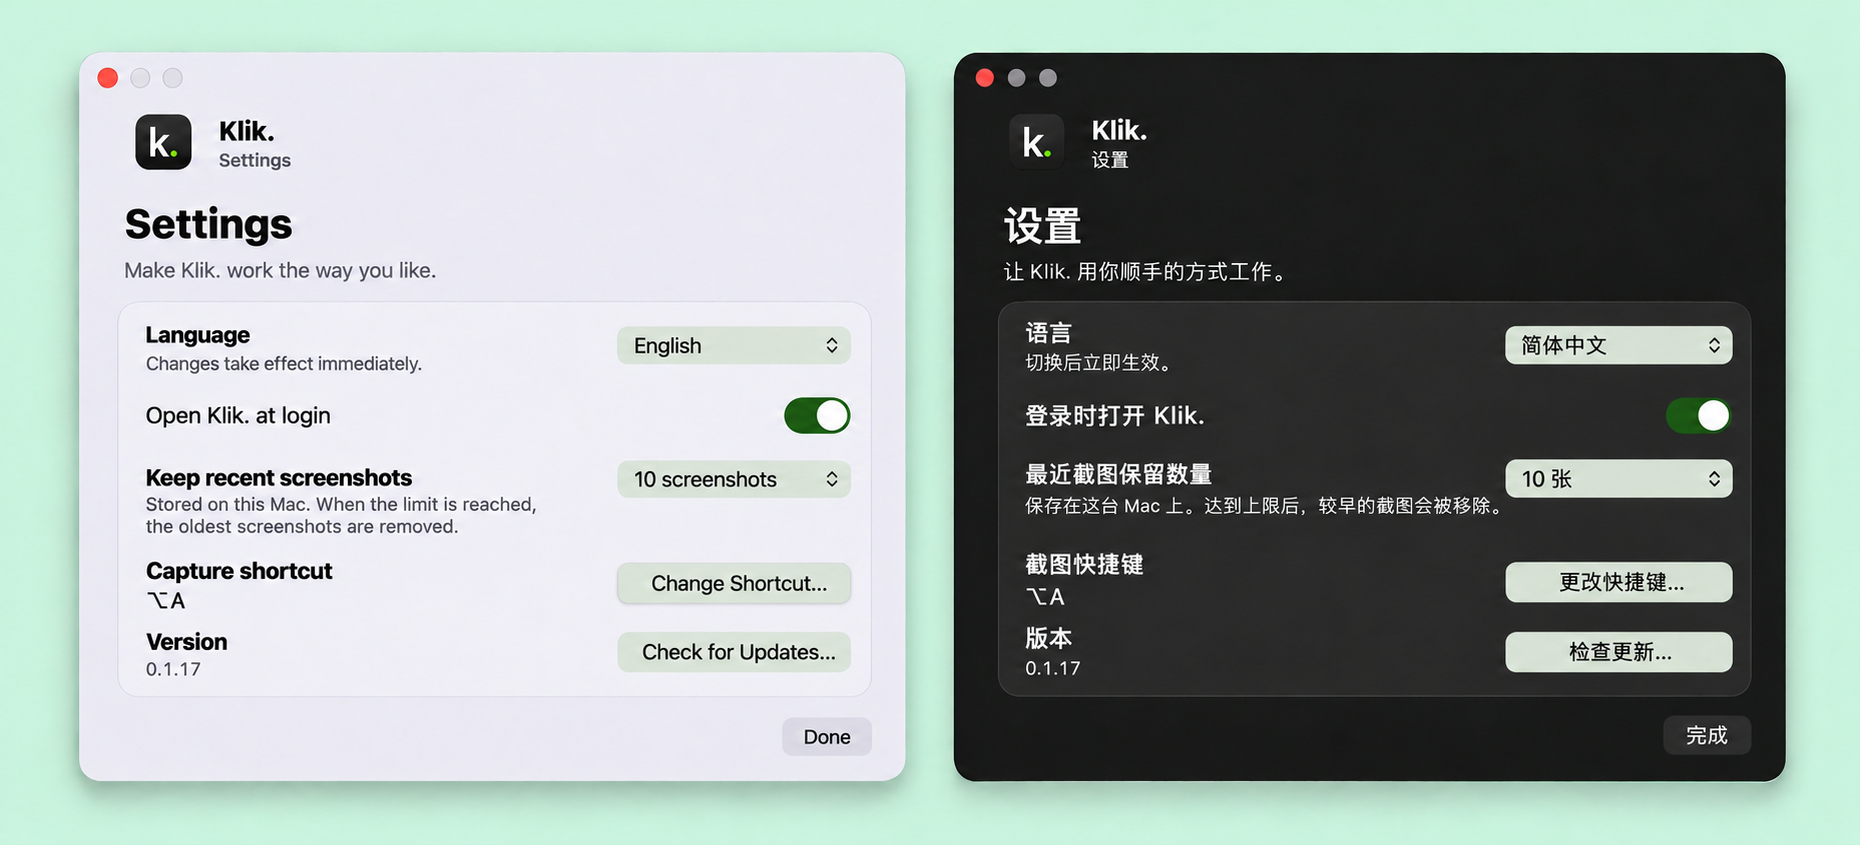
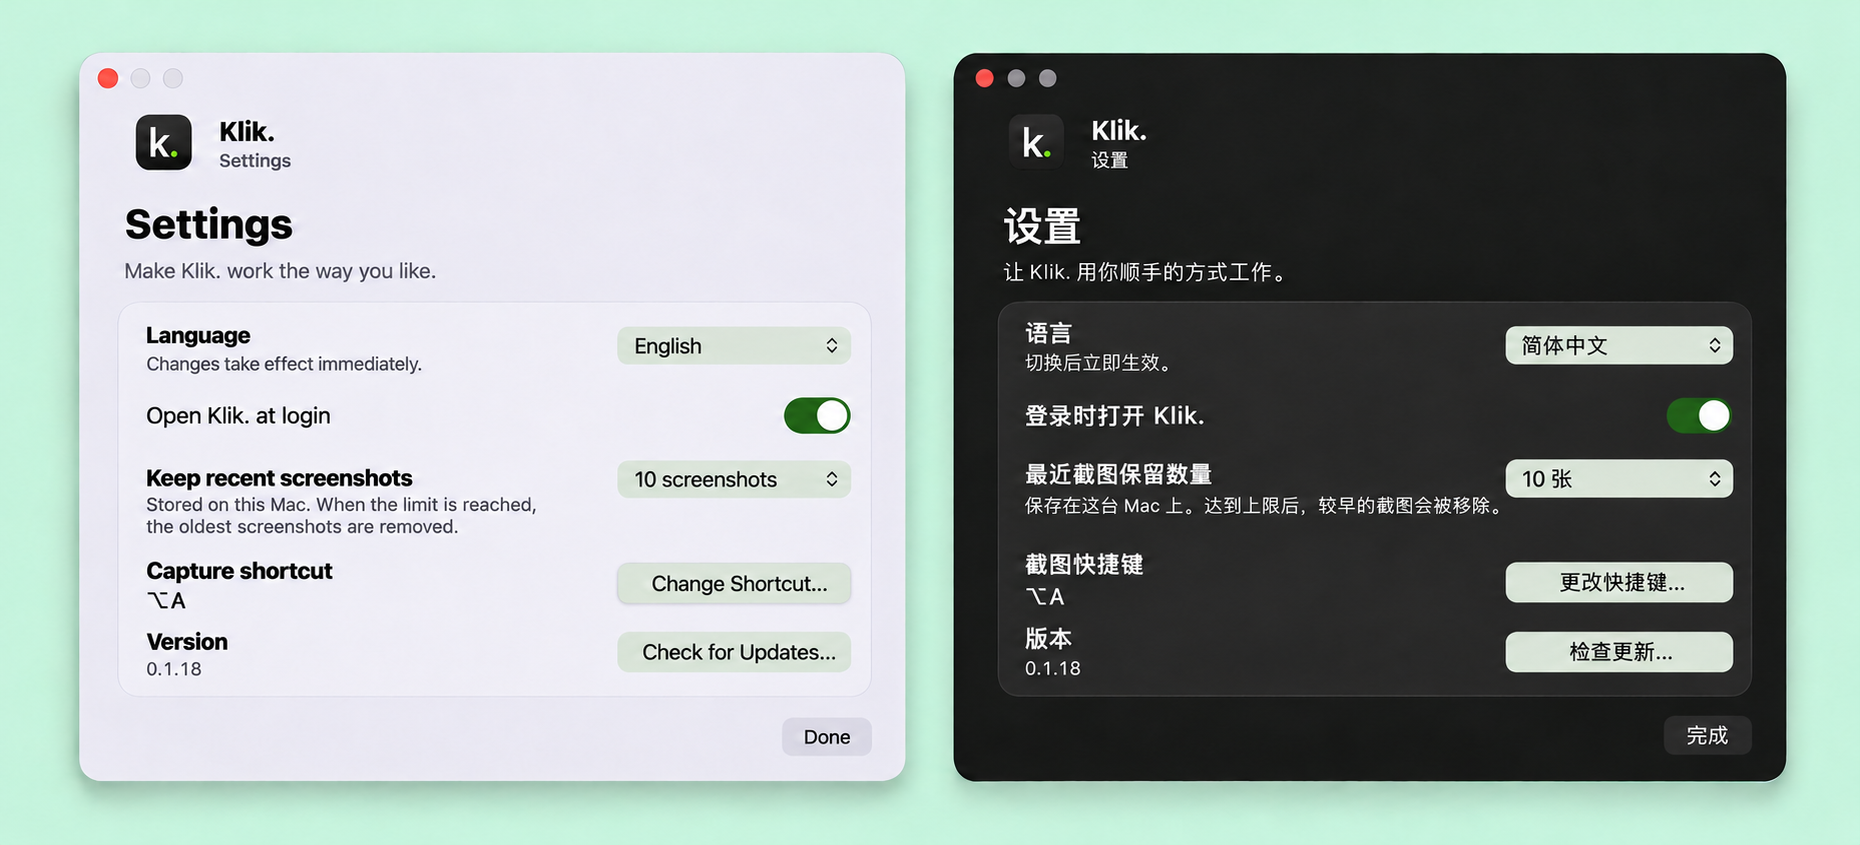
Release Klik 0.1.18

diff --git a/Sources/Klik/ShortcutSetup.swift b/Sources/Klik/ShortcutSetup.swift
@@ -20,6 +20,7 @@ final class ShortcutSetup: NSWindowController, NSWindowDelegate {
     private var strings: AppStrings
     private var historyLimit: Int
     private var isCheckingUpdates = false
+    private var isDownloadingUpdate = false
     private var appVersion: String {
         Bundle.main.object(forInfoDictionaryKey: "CFBundleShortVersionString") as? String ?? "0.0.0"
     }
@@ -106,7 +107,7 @@ final class ShortcutSetup: NSWindowController, NSWindowDelegate {
     }
 
     @objc private func checkForUpdates() {
-        guard !isCheckingUpdates else { return }
+        guard !isCheckingUpdates && !isDownloadingUpdate else { return }
         isCheckingUpdates = true
         render()
         let version = appVersion
@@ -122,10 +123,10 @@ final class ShortcutSetup: NSWindowController, NSWindowDelegate {
                 alert.messageText = self.strings(.updateCurrentTitle)
                 alert.informativeText = self.strings(.updateCurrentBody)
                 alert.addButton(withTitle: self.strings(.ok))
-            case .available(let version):
+            case .available(let version, let downloadURL):
                 alert.messageText = self.strings(.updateAvailableTitle)
-                alert.informativeText = self.strings(.updateAvailableBody, version)
-                alert.addButton(withTitle: self.strings(.openReleases))
+                alert.informativeText = self.strings(downloadURL == nil ? .updateAvailableFallbackBody : .updateAvailableBody, version)
+                alert.addButton(withTitle: self.strings(downloadURL == nil ? .openReleases : .downloadUpdate))
                 alert.addButton(withTitle: self.strings(.cancel))
             case .unavailable:
                 alert.messageText = self.strings(.updateErrorTitle)
@@ -134,9 +135,47 @@ final class ShortcutSetup: NSWindowController, NSWindowDelegate {
                 alert.addButton(withTitle: self.strings(.openReleases))
             }
             alert.beginSheetModal(for: window) { response in
-                if (result == .unavailable && response == .alertSecondButtonReturn)
-                    || (result != .unavailable && result != .upToDate && response == .alertFirstButtonReturn) {
+                switch (result, response) {
+                case (.available(let version, let asset), .alertFirstButtonReturn):
+                    if let asset { self.installUpdate(asset, version: version) }
+                    else { NSWorkspace.shared.open(UpdateChecker.releasePage) }
+                case (.unavailable, .alertSecondButtonReturn):
                     NSWorkspace.shared.open(UpdateChecker.releasePage)
+                default: break
+                }
+            }
+        }
+    }
+
+    private func installUpdate(_ asset: UpdateChecker.Asset, version: String) {
+        guard !isDownloadingUpdate else { return }
+        isDownloadingUpdate = true
+        render()
+        Task { @MainActor [weak self] in
+            guard let self else { return }
+            do {
+                let app = Bundle.main.bundleURL.standardizedFileURL
+                let prepared = try await Task.detached {
+                    try await UpdateInstaller.prepare(asset, version: version, app: app)
+                }.value
+                do {
+                    try UpdateInstaller.installAfterExit(prepared)
+                } catch {
+                    try? FileManager.default.removeItem(at: prepared.staged)
+                    throw error
+                }
+                NSApp.terminate(nil)
+            } catch {
+                self.isDownloadingUpdate = false
+                self.render()
+                guard let window = self.window, window.isVisible else { return }
+                let alert = NSAlert()
+                alert.messageText = self.strings(.updateDownloadErrorTitle)
+                alert.informativeText = self.strings(.updateDownloadErrorBody)
+                alert.addButton(withTitle: self.strings(.ok))
+                alert.addButton(withTitle: self.strings(.openReleases))
+                alert.beginSheetModal(for: window) { response in
+                    if response == .alertSecondButtonReturn { NSWorkspace.shared.open(UpdateChecker.releasePage) }
                 }
             }
         }
@@ -342,6 +381,7 @@ final class ShortcutSetup: NSWindowController, NSWindowDelegate {
             row.addArrangedSubview(spacer)
             let languageControl = languagePicker()
             languageControl.widthAnchor.constraint(equalToConstant: settingsControlWidth).isActive = true
+            languageControl.heightAnchor.constraint(equalToConstant: 26).isActive = true
             row.addArrangedSubview(languageControl)
             settingsRows.addArrangedSubview(row)
             row.widthAnchor.constraint(equalTo: settingsRows.widthAnchor).isActive = true
@@ -384,6 +424,7 @@ final class ShortcutSetup: NSWindowController, NSWindowDelegate {
             picker.setAccessibilityLabel(strings(.historyLimit))
             picker.bezelColor = KlikTheme.keycap
             picker.widthAnchor.constraint(equalToConstant: settingsControlWidth).isActive = true
+            picker.heightAnchor.constraint(equalToConstant: 26).isActive = true
             historyRow.addArrangedSubview(picker)
             settingsRows.addArrangedSubview(historyRow)
             historyRow.widthAnchor.constraint(equalTo: settingsRows.widthAnchor).isActive = true
@@ -437,8 +478,8 @@ final class ShortcutSetup: NSWindowController, NSWindowDelegate {
             let spacer = NSView()
             spacer.setContentHuggingPriority(.defaultLow, for: .horizontal)
             versionRow.addArrangedSubview(spacer)
-            let update = button(strings(isCheckingUpdates ? .checkingUpdates : .checkForUpdates), #selector(checkForUpdates))
-            update.isEnabled = !isCheckingUpdates
+            let update = button(strings(isDownloadingUpdate ? .downloadingUpdate : (isCheckingUpdates ? .checkingUpdates : .checkForUpdates)), #selector(checkForUpdates))
+            update.isEnabled = !isCheckingUpdates && !isDownloadingUpdate
             update.widthAnchor.constraint(equalToConstant: settingsControlWidth).isActive = true
             versionRow.addArrangedSubview(update)
             settingsRows.addArrangedSubview(versionRow)
@@ -502,14 +543,39 @@ final class ShortcutSetup: NSWindowController, NSWindowDelegate {
     }
 
     private func button(_ title: String, _ action: Selector, primary: Bool = false) -> NSButton {
-        let button = NSButton(title: title, target: self, action: action)
-        button.bezelStyle = .rounded
-        button.bezelColor = KlikTheme.keycap
+        let button = ForestButton(title: title, target: self, action: action)
         if primary {
-            button.bezelColor = KlikTheme.primary
+            button.isPrimary = true
             button.keyEquivalent = "\r"
         }
         return button
+    }
+}
+
+// Draw buttons with the same surface and outline as the settings pickers.
+private final class ForestButton: NSButton {
+    var isPrimary = false
+    override var alignmentRectInsets: NSEdgeInsets { NSEdgeInsets(top: 0, left: 0, bottom: 0, right: 0) }
+
+    override var intrinsicContentSize: NSSize {
+        let size = super.intrinsicContentSize
+        return NSSize(width: max(size.width, 65), height: 26)
+    }
+
+    override func draw(_ dirtyRect: NSRect) {
+        let shape = NSBezierPath(roundedRect: bounds.insetBy(dx: 0.5, dy: 0.5), xRadius: 6, yRadius: 6)
+        (isPrimary ? KlikTheme.primary : KlikTheme.keycap).withAlphaComponent(isEnabled ? 1 : 0.55).setFill()
+        shape.fill()
+        (window?.firstResponder === self ? KlikTheme.selection : NSColor.separatorColor).setStroke()
+        shape.lineWidth = 1
+        shape.stroke()
+        let style = NSMutableParagraphStyle()
+        style.alignment = .center
+        style.lineBreakMode = .byTruncatingTail
+        let font = NSFont.systemFont(ofSize: 13)
+        let attrs: [NSAttributedString.Key: Any] = [.font: font, .foregroundColor: isPrimary ? NSColor.white : NSColor.labelColor, .paragraphStyle: style]
+        let height = (title as NSString).size(withAttributes: attrs).height
+        (title as NSString).draw(in: NSRect(x: 7, y: (bounds.height - height) / 2, width: max(0, bounds.width - 14), height: height + 2), withAttributes: attrs)
     }
 }
 

diff --git a/Sources/Klik/UpdateInstaller.swift b/Sources/Klik/UpdateInstaller.swift
@@ -1,0 +1,90 @@
+import CryptoKit
+import Foundation
+
+/// Downloads and prepares a verified release before handing the swap to a small
+/// helper. The running app stays untouched until it has exited.
+enum UpdateInstaller {
+    struct Prepared {
+        let app: URL
+        let staged: URL
+        let backup: URL
+    }
+
+    static func prepare(_ asset: UpdateChecker.Asset, version: String, app: URL) async throws -> Prepared {
+        let fm = FileManager.default
+        let parent = app.deletingLastPathComponent()
+        guard app.pathExtension == "app", fm.isWritableFile(atPath: parent.path) else {
+            throw CocoaError(.fileWriteNoPermission)
+        }
+        var request = URLRequest(url: asset.url, timeoutInterval: 90)
+        request.setValue("Klik-Updater", forHTTPHeaderField: "User-Agent")
+        let (download, response) = try await URLSession.shared.download(for: request)
+        defer { try? fm.removeItem(at: download) }
+        guard let http = response as? HTTPURLResponse, (200...299).contains(http.statusCode) else {
+            throw URLError(.badServerResponse)
+        }
+        let data = try Data(contentsOf: download, options: .mappedIfSafe)
+        let hash = SHA256.hash(data: data).map { String(format: "%02x", $0) }.joined()
+        guard hash == asset.sha256 else { throw URLError(.cannotDecodeContentData) }
+
+        let temporary = fm.temporaryDirectory.appendingPathComponent("klik-update-\(UUID().uuidString)", isDirectory: true)
+        let mount = temporary.appendingPathComponent("mount", isDirectory: true)
+        try fm.createDirectory(at: mount, withIntermediateDirectories: true)
+        defer { try? fm.removeItem(at: temporary) }
+        try run("/usr/bin/hdiutil", ["attach", "-readonly", "-nobrowse", "-mountpoint", mount.path, download.path])
+        defer { try? run("/usr/bin/hdiutil", ["detach", mount.path]) }
+        let candidate = mount.appendingPathComponent("Klik.app", isDirectory: true)
+        guard let bundle = Bundle(url: candidate), bundle.bundleIdentifier == Bundle.main.bundleIdentifier,
+              bundle.object(forInfoDictionaryKey: "CFBundleShortVersionString") as? String == version.trimmingCharacters(in: CharacterSet(charactersIn: "v")) else {
+            throw CocoaError(.fileReadCorruptFile)
+        }
+        try run("/usr/bin/codesign", ["--verify", "--strict", candidate.path])
+        let suffix = UUID().uuidString
+        let staged = parent.appendingPathComponent(".Klik-update-\(suffix).app")
+        let backup = parent.appendingPathComponent(".Klik-backup-\(suffix).app")
+        do {
+            try fm.copyItem(at: candidate, to: staged)
+            try run("/usr/bin/codesign", ["--verify", "--strict", staged.path])
+        } catch {
+            try? fm.removeItem(at: staged)
+            throw error
+        }
+        return Prepared(app: app, staged: staged, backup: backup)
+    }
+
+    static func installAfterExit(_ prepared: Prepared) throws {
+        // Paths are arguments rather than interpolated shell text. Keep the old
+        // app until the replacement has been placed and Launch Services accepts it.
+        let script = #"""
+        pid="$1"; app="$2"; staged="$3"; backup="$4"
+        while /bin/kill -0 "$pid" 2>/dev/null; do /bin/sleep 0.2; done
+        if ! /bin/mv "$app" "$backup"; then /bin/rm -rf "$staged"; /usr/bin/open -n "$app"; exit 1; fi
+        if ! /bin/mv "$staged" "$app"; then /bin/mv "$backup" "$app"; /usr/bin/open -n "$app"; exit 1; fi
+        if /usr/bin/open -n "$app"; then
+          /bin/rm -rf "$backup"
+        else
+          /bin/mv "$app" "$staged"
+          /bin/mv "$backup" "$app"
+          /usr/bin/open -n "$app"
+          /bin/rm -rf "$staged"
+        fi
+        """#
+        let process = Process()
+        process.executableURL = URL(fileURLWithPath: "/bin/sh")
+        process.arguments = ["-c", script, "klik-updater", String(ProcessInfo.processInfo.processIdentifier), prepared.app.path, prepared.staged.path, prepared.backup.path]
+        process.standardOutput = FileHandle.nullDevice
+        process.standardError = FileHandle.nullDevice
+        try process.run()
+    }
+
+    private static func run(_ executable: String, _ arguments: [String]) throws {
+        let process = Process()
+        process.executableURL = URL(fileURLWithPath: executable)
+        process.arguments = arguments
+        process.standardOutput = FileHandle.nullDevice
+        process.standardError = FileHandle.nullDevice
+        try process.run()
+        process.waitUntilExit()
+        guard process.terminationStatus == 0 else { throw CocoaError(.fileReadUnknown) }
+    }
+}

diff --git a/Sources/Klik/UpdateChecker.swift b/Sources/Klik/UpdateChecker.swift
@@ -4,9 +4,11 @@ struct UpdateChecker {
     static let releasePage = URL(string: "https://github.com/TerryZheng233/Klik./releases/latest")!
     private static let apiURL = URL(string: "https://api.github.com/repos/TerryZheng233/Klik./releases/latest")!
 
+    struct Asset: Equatable { let url: URL; let sha256: String }
+
     enum Result: Equatable {
         case upToDate
-        case available(String)
+        case available(String, Asset?)
         case unavailable
     }
 
@@ -24,7 +26,11 @@ struct UpdateChecker {
     }
 
     static func evaluate(data: Data, status: Int?, currentVersion: String) -> Result {
-        struct Release: Decodable { let tag_name: String }
+        struct Release: Decodable {
+            struct Asset: Decodable { let name: String; let browser_download_url: URL; let digest: String? }
+            let tag_name: String
+            let assets: [Asset]?
+        }
         guard status == 200, let release = try? JSONDecoder().decode(Release.self, from: data),
               let latest = components(release.tag_name), let current = components(currentVersion) else {
             return .unavailable
@@ -33,7 +39,17 @@ struct UpdateChecker {
         for index in 0..<count {
             let lhs = index < latest.count ? latest[index] : 0
             let rhs = index < current.count ? current[index] : 0
-            if lhs > rhs { return .available(release.tag_name) }
+            if lhs > rhs {
+                let expectedName = "Klik-\(release.tag_name.hasPrefix("v") ? String(release.tag_name.dropFirst()) : release.tag_name)-arm64.dmg"
+                let asset = release.assets?.first { $0.name == expectedName && $0.browser_download_url.scheme == "https" && $0.browser_download_url.host == "github.com" && $0.browser_download_url.path == "/TerryZheng233/Klik./releases/download/\(release.tag_name)/\(expectedName)" }
+                let digest = asset?.digest ?? ""
+                let hex = String(digest.dropFirst("sha256:".count))
+                guard let asset, digest.hasPrefix("sha256:"), hex.count == 64,
+                      hex.allSatisfy({ $0.isHexDigit && $0.isASCII }) else {
+                    return .available(release.tag_name, nil)
+                }
+                return .available(release.tag_name, Asset(url: asset.browser_download_url, sha256: hex.lowercased()))
+            }
             if lhs < rhs { return .upToDate }
         }
         return .upToDate

diff --git a/Tests/KlikTests/UpdateCheckerTests.swift b/Tests/KlikTests/UpdateCheckerTests.swift
@@ -4,11 +4,21 @@ import XCTest
 final class UpdateCheckerTests: XCTestCase {
     func testVersionComparisonUsesNumericComponents() {
         func payload(_ tag: String) -> Data { Data("{\"tag_name\":\"\(tag)\"}".utf8) }
-        XCTAssertEqual(UpdateChecker.evaluate(data: payload("v0.1.17"), status: 200, currentVersion: "0.1.16"), .available("v0.1.17"))
-        XCTAssertEqual(UpdateChecker.evaluate(data: payload("v0.1.10"), status: 200, currentVersion: "0.1.9"), .available("v0.1.10"))
+        XCTAssertEqual(UpdateChecker.evaluate(data: payload("v0.1.17"), status: 200, currentVersion: "0.1.16"), .available("v0.1.17", nil))
+        XCTAssertEqual(UpdateChecker.evaluate(data: payload("v0.1.10"), status: 200, currentVersion: "0.1.9"), .available("v0.1.10", nil))
         XCTAssertEqual(UpdateChecker.evaluate(data: payload("v0.1.16"), status: 200, currentVersion: "0.1.16"), .upToDate)
         XCTAssertEqual(UpdateChecker.evaluate(data: payload("v0.1.9"), status: 200, currentVersion: "0.1.16"), .upToDate)
         XCTAssertEqual(UpdateChecker.evaluate(data: payload("v1.0"), status: 200, currentVersion: "1.0.0"), .upToDate)
+    }
+
+    func testDownloadOnlyUsesTheExpectedReleaseAsset() {
+        let url = "https://github.com/TerryZheng233/Klik./releases/download/v0.1.17/Klik-0.1.17-arm64.dmg"
+        let payload = """
+        {"tag_name":"v0.1.17","assets":[{"name":"Klik-0.1.17-arm64.dmg","browser_download_url":"\(url)","digest":"sha256:0909166ddb44b21e8adab1c0c6cba8fe2744da3775870bd8db9741210ccce1d2"}]}
+        """
[1 lines of base64/hex data omitted]
+        let unsafe = payload.replacingOccurrences(of: "github.com", with: "example.com")
+        XCTAssertEqual(UpdateChecker.evaluate(data: Data(unsafe.utf8), status: 200, currentVersion: "0.1.16"), .available("v0.1.17", nil))
     }
 
     func testErrorsAndInvalidVersionAreNotReportedAsUpToDate() {

diff --git a/Tests/KlikTests/SettingsLayoutTests.swift b/Tests/KlikTests/SettingsLayoutTests.swift
@@ -28,6 +28,9 @@ final class SettingsLayoutTests: XCTestCase {
             let updateFrame = update.convert(update.bounds, to: root)
             let languageFrame = language.convert(language.bounds, to: root)
             let historyFrame = history.convert(history.bounds, to: root)
+            XCTAssertEqual(languageFrame.height, buttonFrame.height, accuracy: 0.5)
+            XCTAssertEqual(historyFrame.height, buttonFrame.height, accuracy: 0.5)
+            XCTAssertEqual(updateFrame.height, buttonFrame.height, accuracy: 0.5)
             XCTAssertEqual(languageFrame.width, buttonFrame.width, accuracy: 0.5)
             XCTAssertEqual(historyFrame.width, buttonFrame.width, accuracy: 0.5)
             XCTAssertEqual(languageFrame.maxX, buttonFrame.maxX, accuracy: 0.5)

diff --git a/Sources/Klik/Localization.swift b/Sources/Klik/Localization.swift
@@ -146,10 +146,18 @@ enum UIKey: String, CaseIterable {
     case checkingUpdates
     case updateAvailableTitle
     case updateAvailableBody
+    case updateAvailableFallbackBody
     case updateCurrentTitle
     case updateCurrentBody
     case updateErrorTitle
     case updateErrorBody
+    case downloadUpdate
+    case downloadingUpdate
+    case updateDownloadedTitle
+    case updateDownloadedBody
+    case updateDownloadErrorTitle
+    case updateDownloadErrorBody
+    case showInFinder
     case openReleases
 }
 

diff --git a/Sources/Klik/ForestPicker.swift b/Sources/Klik/ForestPicker.swift
@@ -18,6 +18,7 @@ final class ForestPicker: NSPopUpButton, NSPopoverDelegate {
     required init?(coder: NSCoder) { nil }
 
     override var isFlipped: Bool { true }
+    override var alignmentRectInsets: NSEdgeInsets { NSEdgeInsets(top: 0, left: 0, bottom: 0, right: 0) }
 
     override func draw(_ dirtyRect: NSRect) {
         let rect = bounds.insetBy(dx: 0.5, dy: 0.5)

diff --git a/README.md b/README.md
@@ -50,7 +50,7 @@ Some apps may prevent their windows from appearing in screenshots. On some Macs,
 
 Click **k.** in the menu bar to find your recent screenshots. They’re stored on your Mac; select one to preview it and copy it again, or clear the list after confirming. Klik. keeps 10 by default. In settings, you can change the limit to 5, 10, 20, or 50 screenshots. When the limit is reached, the oldest captures are removed.
 
-Settings also lets you turn on opening Klik. at login and check for updates.
+Settings also lets you turn on opening Klik. at login and check for updates. When a new version is available, you can install it directly from Settings and restart Klik.
 
 If **⌥A** is already in use, for example by WeChat, you can choose another shortcut during setup or in settings. The two apps may not be able to use the same shortcut at the same time.
 

diff --git a/README.zh-CN.md b/README.zh-CN.md
@@ -50,7 +50,7 @@
 
 点击菜单栏上的 **k.**，就能找到最近截图。截图保存在这台 Mac 上，点选一张可以预览和重新复制，也可以在确认后清空。默认保留 10 张，你可以在设置里改为 5、10、20 或 50 张；达到上限后，最早的截图会被移除。
 
-在设置里，你也可以开启登录时启动 Klik.，或检查更新。
+在设置里，你也可以开启登录时启动 Klik.，或检查更新。发现新版本时，可以直接在设置中安装并重启 Klik。
 
 如果 **⌥A** 已被微信或其他应用占用，可以在首次设置或之后的设置中换一组快捷键；两个应用可能无法同时使用同一组快捷键。
 

diff --git a/CHANGELOG.md b/CHANGELOG.md
@@ -2,6 +2,18 @@
 
 Changes are listed newest first. / 按版本从新到旧记录。
 
+## 0.1.18 — 2026-11-09
+
+**English**
+
+- Download and install an available update from Settings, then restart Klik. The installer is removed after the update.
+- Give settings buttons and dropdowns a consistent appearance and alignment.
+
+**简体中文**
+
+- 在设置中发现新版本后，可直接下载安装并重启 Klik，更新后不会留下安装包。
+- 统一设置中按钮和下拉菜单的外观与对齐方式。
+
 ## 0.1.17 — 2026-11-09
 
 **English**
